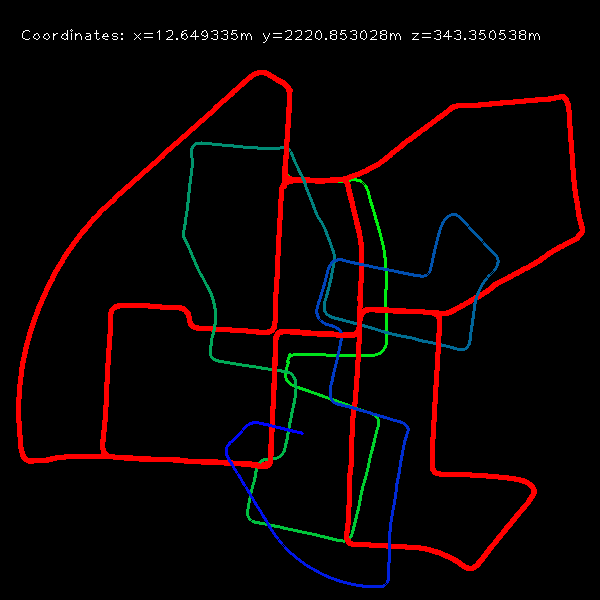
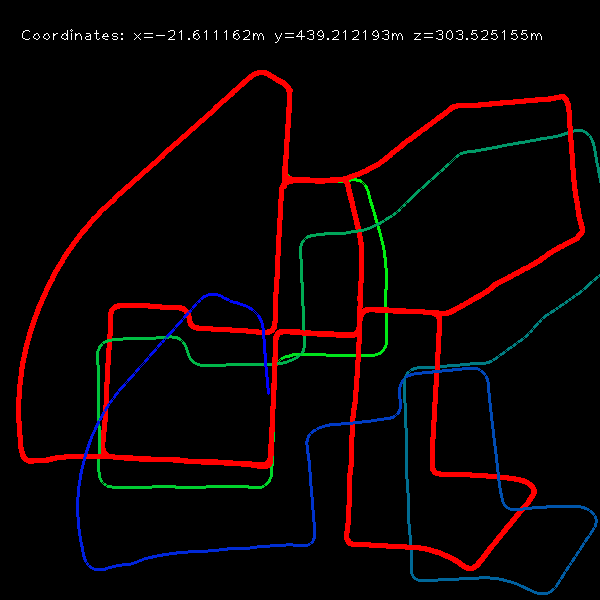
drow optical flow and stop position update when optical flow is small

diff --git a/test.py b/test.py
@@ -8,11 +8,11 @@ from kitti_odometrory import KittaOdometory
 
 @dataclass
 class Point:
-	x: float
-	y: float
+    x: float
+    y: float
 
 def draw_color(img_id):
-	return (img_id*255/4540, 255-img_id*255/4540, 0)
+    return (img_id*255/4540, 255-img_id*255/4540, 0)
 
 KITTI_DATASET = '/Users/user01/projects/datasets/KITTI_grayscale/'
 cam = PinholeCamera(1241.0, 376.0, 718.8560, 718.8560, 607.1928, 185.2157)
@@ -23,30 +23,37 @@ draw_center = Point(290, 90)
 traj = np.zeros((600,600,3), dtype=np.uint8)
 
 for img_id in range(4541):
-	# estimated position
-	img = cv2.imread(KITTI_DATASET + 'KITTI_odometry_gray/00/image_0/'+str(img_id).zfill(6)+'.png', 0)
-	vo.update(img)
-	cur_t = vo.cur_t
-	if(img_id > 2):
-		k = 0.8
-		x, y, z = k * cur_t[0], k * cur_t[1], k * cur_t[2]
-	else:
-		x, y, z = 0., 0., 0.
-	draw_x, draw_y = int(x+draw_center.x), int(z+draw_center.y)
+    # estimated position
+    img = cv2.imread(KITTI_DATASET + 'KITTI_odometry_gray/00/image_0/'+str(img_id).zfill(6)+'.png', 0)
+    vo.update(img)
+    cur_t = vo.cur_t
+    if(img_id > 2):
+        k = 0.8
+        x, y, z = k * cur_t[0], k * cur_t[1], k * cur_t[2]
+    else:
+        x, y, z = 0., 0., 0.
+    draw_x, draw_y = int(x+draw_center.x), int(z+draw_center.y)
 
-	# true position
-	trueX, trueY, trueZ = ko.getXYZ(img_id)
-	true_x, true_y = int(trueX+draw_center.x), int(trueZ+draw_center.y)
+    # true position
+    trueX, trueY, trueZ = ko.getXYZ(img_id)
+    true_x, true_y = int(trueX+draw_center.x), int(trueZ+draw_center.y)
 
-	# draw
-	cv2.circle(traj, (draw_x, draw_y), 1, draw_color(img_id), 1)
-	cv2.circle(traj, (true_x, true_y), 1, (0,0,255), 2)
-	cv2.rectangle(traj, (10, 20), (600, 60), (0,0,0), -1)
-	text = "Coordinates: x=%2fm y=%2fm z=%2fm"%(x,y,z)
-	cv2.putText(traj, text, (20,40), cv2.FONT_HERSHEY_PLAIN, 1, (255,255,255), 1, 8)
+    # draw
+    cv2.circle(traj, (draw_x, draw_y), 1, draw_color(img_id), 1)
+    cv2.circle(traj, (true_x, true_y), 1, (0,0,255), 2)
+    cv2.rectangle(traj, (10, 20), (600, 60), (0,0,0), -1)
+    text = "Coordinates: x=%2fm y=%2fm z=%2fm"%(x,y,z)
+    cv2.putText(traj, text, (20,40), cv2.FONT_HERSHEY_PLAIN, 1, (255,255,255), 1, 8)
+    out = img.copy()
+    out = cv2.cvtColor(out, cv2.COLOR_GRAY2BGR)
+    if vo.px_old is not None:
+        for old, cur in zip(vo.px_old, vo.px_cur):
+            x, y = cur
+            ox, oy = old
+            cv2.line(out, (int(ox), int(oy)), (int(x), int(y)), (0, 255, 0), 1)
 
-	cv2.imshow('Road facing camera', img)
-	cv2.imshow('Trajectory', traj)
-	cv2.waitKey(1)
+    cv2.imshow('Road facing camera', out)
+    cv2.imshow('Trajectory', traj)
+    cv2.waitKey(1)
 
 cv2.imwrite('map.png', traj)

diff --git a/visual_odometry.py b/visual_odometry.py
@@ -45,6 +45,7 @@ class VisualOdometry:
         self.cur_R = None
         self.cur_t = None
         self.px_ref = None
+        self.px_old = None
         self.px_cur = None
         self.detector = cv2.FastFeatureDetector_create(threshold=25, nonmaxSuppression=True)
 
@@ -60,23 +61,28 @@ class VisualOdometry:
             return 
 
         # tracking
-        self.px_ref, self.px_cur = featureTracking(self.last_frame, self.new_frame, self.px_ref)
-        E, mask = cv2.findEssentialMat(self.px_cur, self.px_ref,
+        self.px_ref, px_cur = featureTracking(self.last_frame, self.new_frame, self.px_ref)
+        E, mask = cv2.findEssentialMat(px_cur, self.px_ref,
                                        focal=self.cam.fx, pp=(self.cam.cx, self.cam.cy),
                                        method=cv2.RANSAC, prob=0.999, threshold=1.0)
-        _, R, t, mask = cv2.recoverPose(E, self.px_cur, self.px_ref,
+        _, R, t, mask = cv2.recoverPose(E, px_cur, self.px_ref,
                                        focal=self.cam.fx, pp=(self.cam.cx, self.cam.cy))
+        diff = np.mean(np.abs(self.px_ref - px_cur)[:])
         if self.cur_R is None:
             self.cur_R = R
             self.cur_t = t
-        else:
+        elif (1.5 < diff): # stop position update when optical flow is small
             self.cur_t = self.cur_t + self.cur_R @ t 
             self.cur_R = R @ self.cur_R
 
+        # save keypoints for draw
+        self.px_old = self.px_ref.copy()
+        self.px_cur = px_cur.copy()
+
         # Add keypoints if there are only a few existing keypoints
         if (self.px_ref.shape[0] < kMinNumFeature):
-            self.px_cur = self.detect_new_randmarks(self.new_frame)
-        self.px_ref = self.px_cur
+            px_cur = self.detect_new_randmarks(self.new_frame)
+        self.px_ref = px_cur
 
     def update(self, img: np.ndarray):
         assert(img.ndim==2 and img.shape[0]==self.cam.height and img.shape[1]==self.cam.width), \
